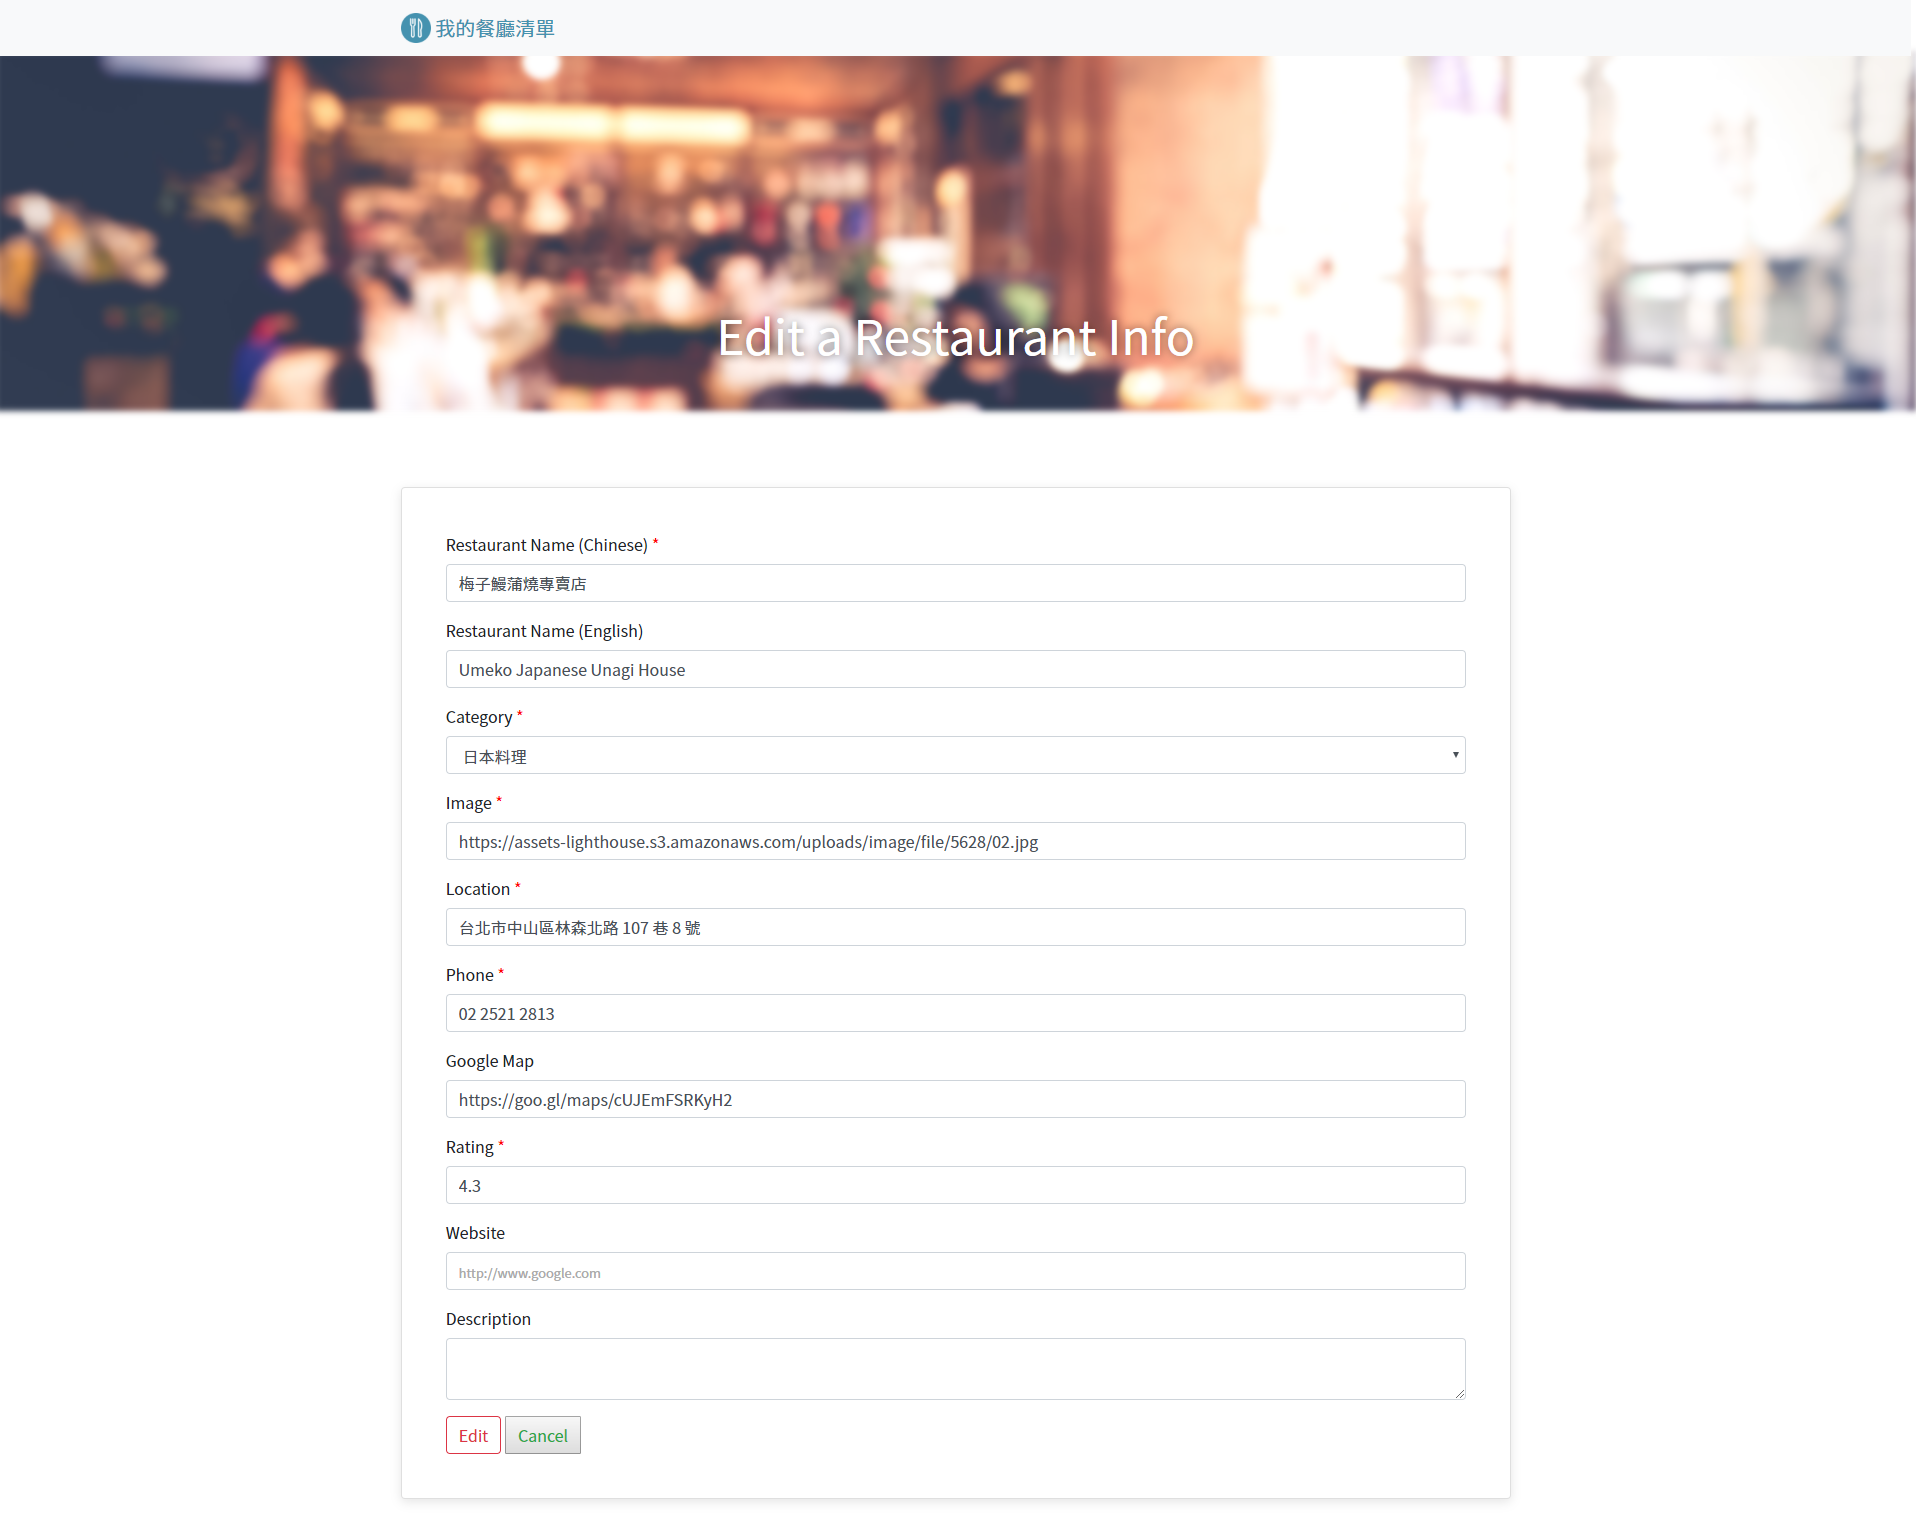
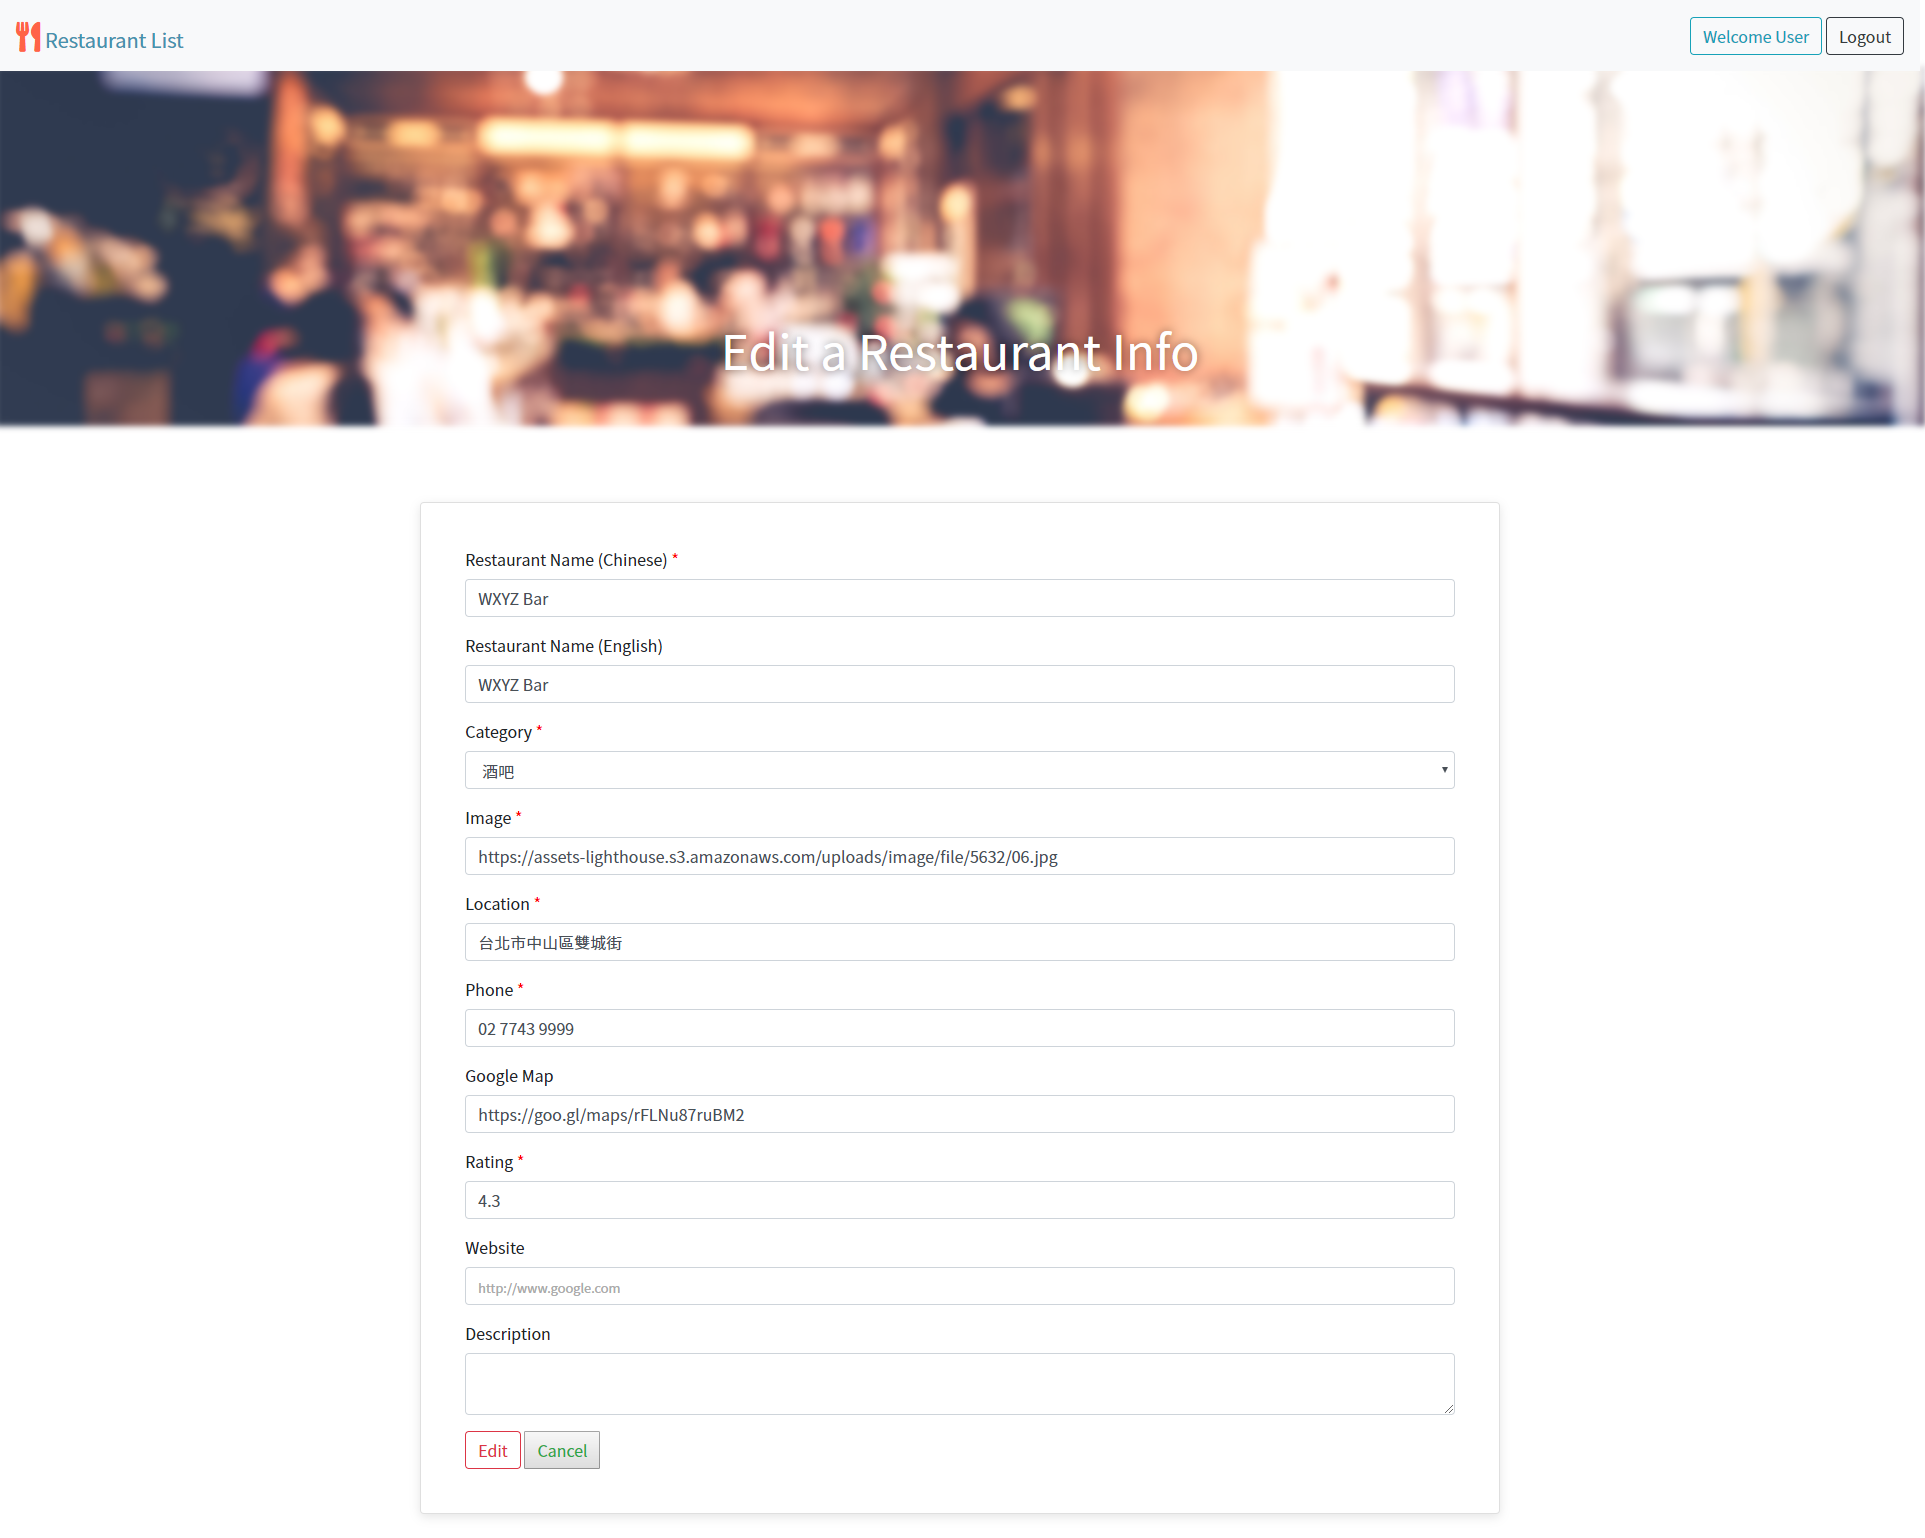
Update readme.md and nav bar in main page

diff --git a/src/models/user.js b/src/models/user.js
@@ -5,7 +5,8 @@ const bcrypt = require('bcryptjs')
 const userSchema = new mongoose.Schema({
   name: {
     type: String,
-    trim: true
+    trim: true,
+    default: 'User'
   },
   email: {
     type: String,

diff --git a/public/css/style.css b/public/css/style.css
@@ -69,6 +69,12 @@ header {
   white-space: nowrap;
 }
 
+.card-img-top {
+  max-height: 200px;
+  min-height: 150px;
+  object-fit: cover;
+}
+
 .restaurant-category {
   color: #666666;
   font-size: 0.8rem;

diff --git a/README.md b/README.md
@@ -1,16 +1,17 @@
-# Restaurant list
+# Restaurant list v3
 
 This is a restaurant list demo which built up from [Alphacamp](https://tw.alphacamp.co/) semester 3 assignment.
 
-![demo-index](./public/img/demo-gif.gif)
+![demo-index](./public/img/demo-auth-gif.gif)
 
 ## Update
-1. Add RESTful CRUD design to restaurant list. 
-2. Add search and sorting feature in index page.
-3. Add register, login and Logout feature with **passport-local**.
-4. Add login with **passport-facebook**.
-5. Add UI message with **passport.js** and connect-flash dependencies in register, login and logout page.
-6. Add request query validation. 
+1. RESTful CRUD design to restaurant list. 
+2. Search and sorting feature in index page.
+3. Register, login and Logout feature with **passport-local**.
+4. Login with **passport-facebook**.
+5. UI message with **passport.js** and connect-flash dependencies in register, login and logout page.
+6. Request query validation. 
+7. restaurant seeder with user reference id.
 
 ## Installing
 
@@ -25,7 +26,7 @@ git clone https://github.com/mpragnarok/restaurant-list.git
 ```
 ### MongoDB server
 
-install [MongoDB server](https://www.mongodb.com/download-center/community) and connect to http://localhost:3000/
+install [MongoDB server](https://www.mongodb.com/download-center/community) and connect to `localhost:27017`
 
 ### Environment variable
 
@@ -52,9 +53,14 @@ Start the server with **nodemon** command.
 
 #### npm run seed
 
-Add seed data to database.
+Add seed data to database then you can hit `CTRL + C ` **twice** to exit from the seeder script.
 
-and use `CTRL + C twice` to exit from the seeder script.
+After run seeder, you can login with default accounts
+
+**Default accounts / password**
+
+1. user1@example.com / 12345678
+2. user2@example.com /12345678
 
 #### npm run start
 
@@ -73,6 +79,8 @@ Head to [http://localhost:3000](http://localhost:3000) to experience the restaur
 	The page has a dynamic index to show up the content of web page which contains front-end and back-end techniques. Front-end part is written in **JavaScript**, **CSS** and **HTML** with **Bootstrap**, back-end part is written in **Node.js** and **Express.js**, server side uses  **MongoDB** with **Mongoose**.  
 
 	The dynamic webpage is made up by **handlebars**. On top of that, it includes search feature which can search with Chinese, English(Uppercase or lowercase) and category of restaurant. 
+
+	Additionally, it has login authentication with local strategy and Facebook strategy which create with **passport.js** , users can only look up the restaurants data which they've added.
 
 ## packages
 
